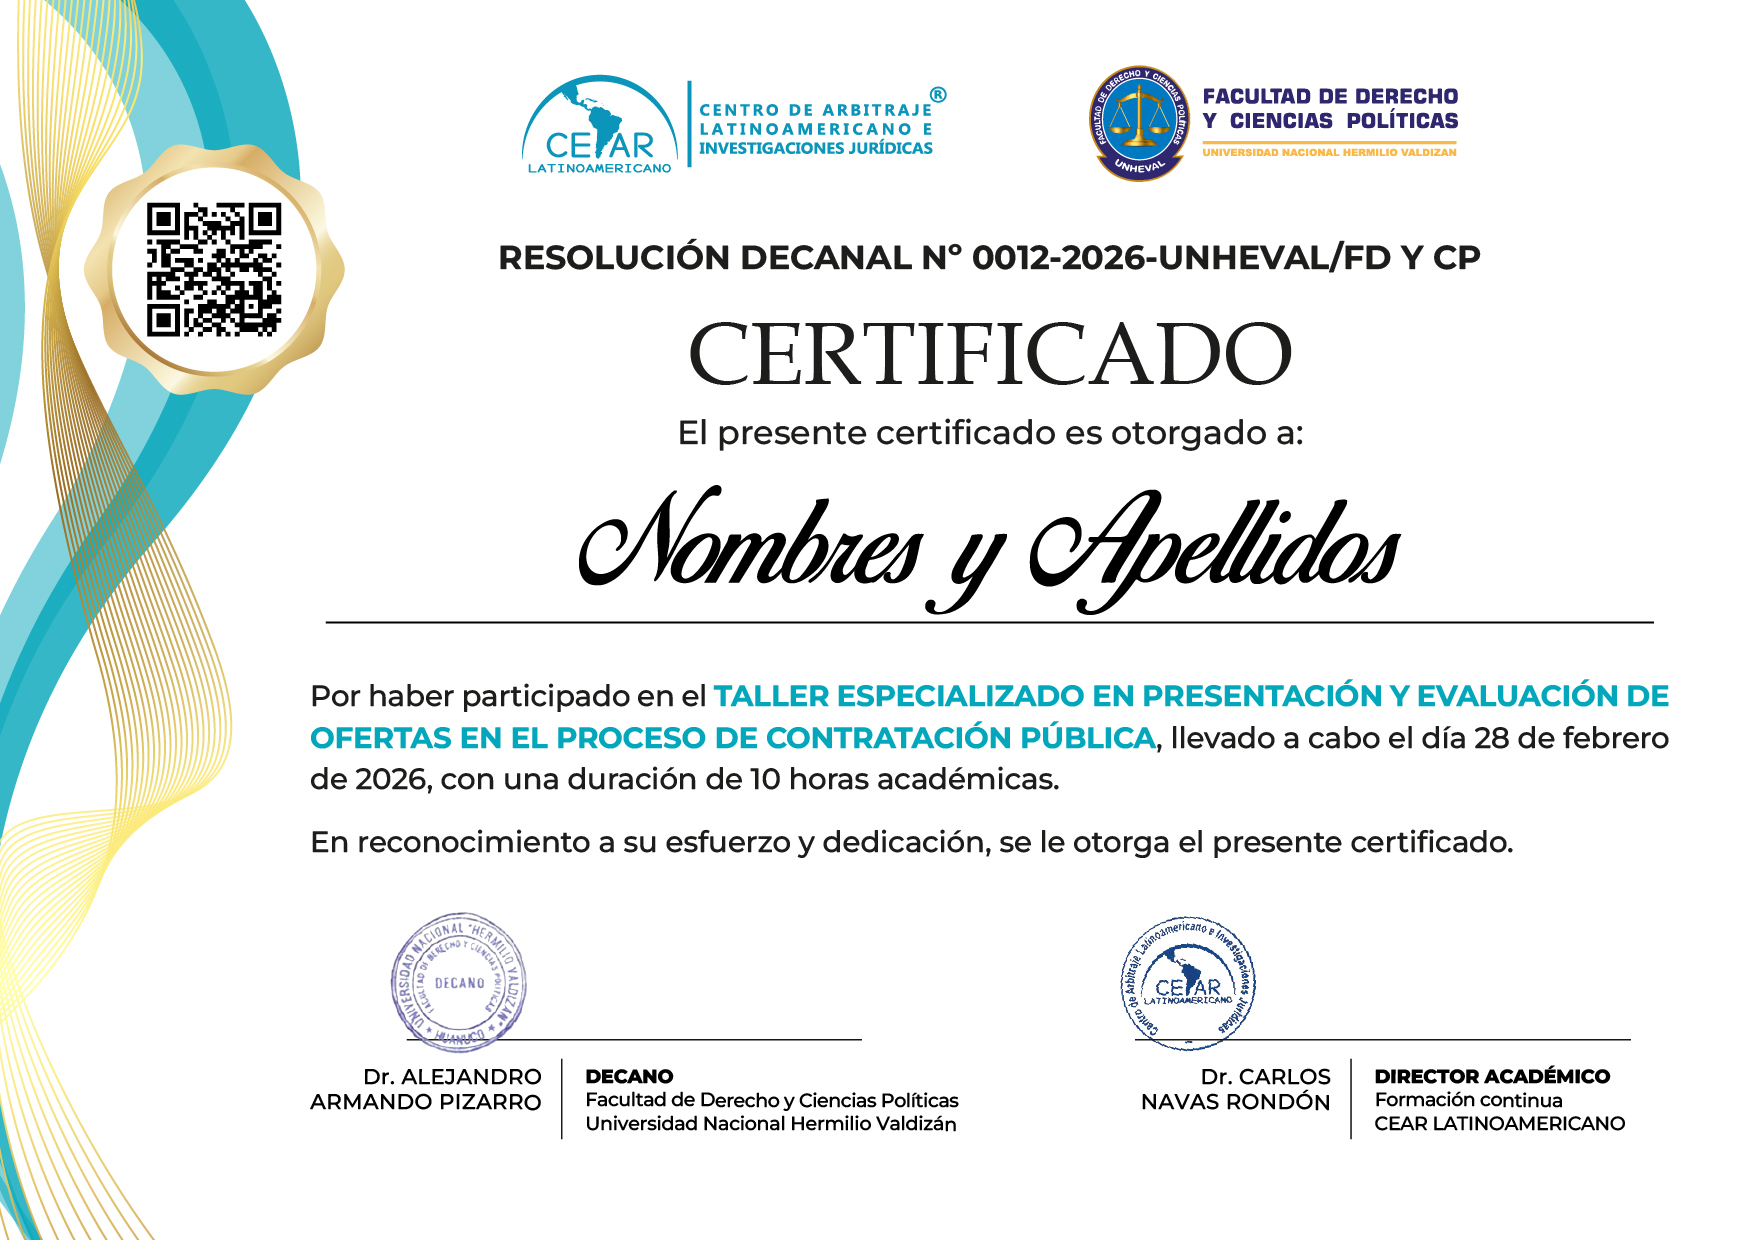
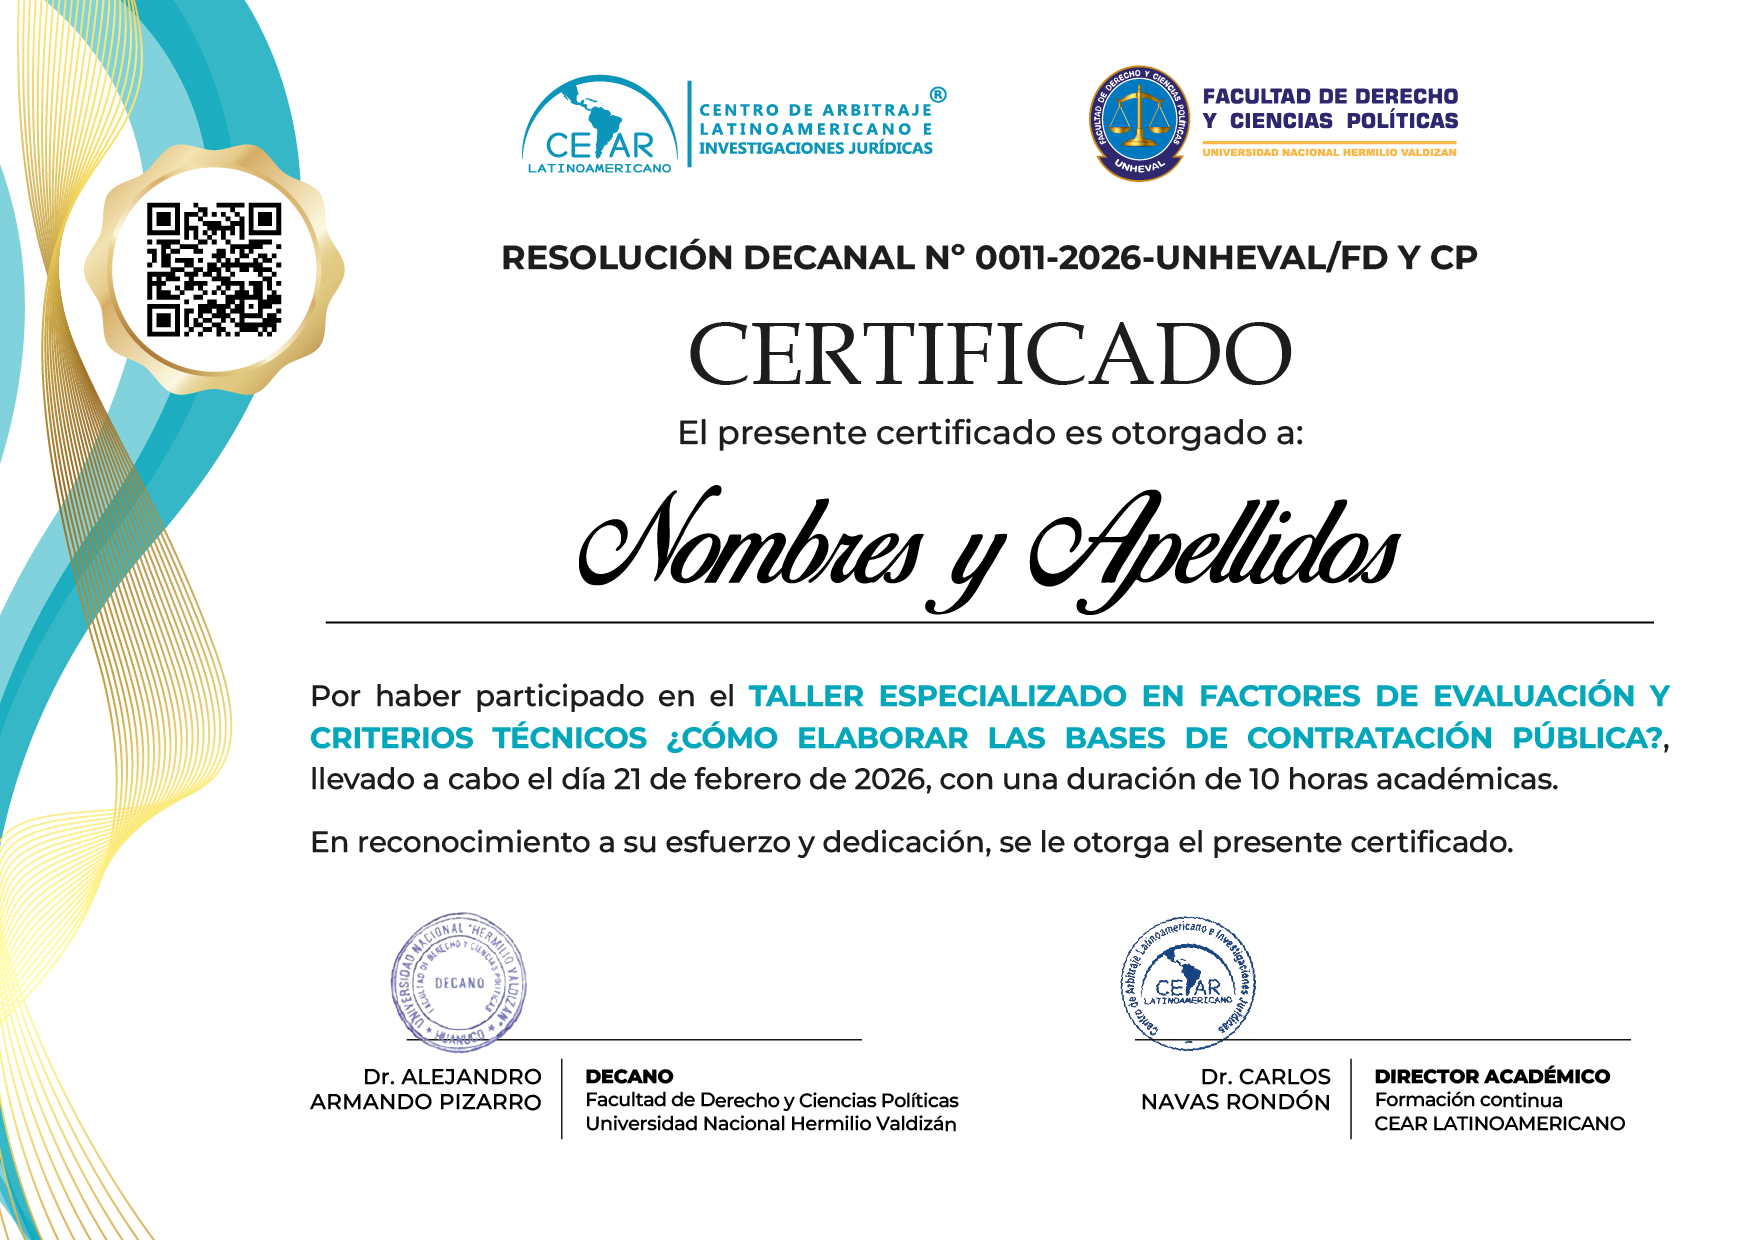
update | Actualizaciones de nuevos talleres

Changed region(s): [[0.1847, 0.5516, 0.9544, 0.6435], [0.2771, 0.1839, 0.8312, 0.2145]]

diff --git a/data/coursesUpdated.ts b/data/coursesUpdated.ts
@@ -69,6 +69,9 @@ const inversionPrivadaPortada = "/images/courses/mip.jpeg";
 const taller1 = "/images/courses/taller-abogado.jpeg";
 const certificadoTaller = "/images/courses/taller_certificado.jpeg";
 
+const taller4 = "/images/courses/taller-4.jpeg";
+const certificadoTaller4 = "/certificates/Certificado_taller_4.jpeg";
+
 const hugoVallejos = "/images/instructors/hugo_vallejos.png";
 
 export interface Course {
@@ -78,15 +81,21 @@ export interface Course {
     fullDescription: string;
     type: "diplomado" | "curso" | "taller";
     modality: "presencial" | "virtual" | "híbrido";
+    platform?: string;
     duration: string;
     price: number;
-    certification: string;
+    certification: string | {
+        issuedBy: string;
+        partnerInstitution: string;
+        requirements: string[];
+    };
     image: string;
     frequency: string;
     schedule: string;
     hours: string;
+    sessions?: number;
     category?: string;
-    benefits?: string;
+    benefits?: string | string[];
     videoUrl?: string;
     videoThumbnail?: string;
     certificationImage?: string;
@@ -122,6 +131,7 @@ export interface Course {
     }[];
     startDate: string;
     featured: boolean;
+    materials?: string[];
 }
 
 export const courses: Course[] = [
@@ -1314,6 +1324,119 @@ export const courses: Course[] = [
         startDate: "21-02-26",
         featured: true,
     },
+    {
+        id: "presentacion-y-evaluacion-de-ofertas-contratacion-publica",
+        title: "Presentación y evaluación de ofertas en la contratación pública",
+        shortDescription:
+          "Taller especializado orientado a fortalecer las capacidades técnicas para la correcta presentación, admisión y evaluación de ofertas en los procesos de contratación pública, conforme a la Ley N.° 32069 y su Reglamento.",
+        fullDescription:
+          "Durante el procedimiento de contratación pública, la oferta constituye el eje central de la fase de selección, al expresar la voluntad del postor de contratar con el Estado y someterse a las bases del proceso, asumiendo obligaciones técnicas, económicas y legales. Su adecuada presentación y evaluación, conforme a los artículos 68 al 79 del Reglamento de la Ley N.° 32069, resulta esencial para la validez del procedimiento, la correcta selección del adjudicatario y la prevención de controversias durante la ejecución contractual.\n\nEl taller especializado tiene como finalidad identificar y analizar los aspectos esenciales vinculados a la presentación y evaluación de la oferta, desde la integración de bases y la admisión, hasta su contenido, tipos, requisitos de calificación, evaluación técnica y económica, así como los mecanismos de subsanación. El enfoque combina análisis normativo y estudio de casos reales, garantizando un aprendizaje integral y aplicado.",
+        type: "taller",
+        modality: "virtual",
+        platform: "Google Meet",
+        startDate: "28-02-2026",
+        schedule: "09:00 a.m. - 04:00 p.m.",
+        duration: "28/02/2026",
+        hours: "10 horas académicas",
+        sessions: 1,
+        brochure:
+            "https://cearlatinoamericano.edu.pe/sisdocs/brochures/BROCHURE_EVALUACION_TALLER.pdf",
+        price: 200,
+        frequency: "Sesión única",
+        image: taller4,
+        certificationImage: certificadoTaller4,
+        category: "Contratación Pública",
+        certification: {
+          issuedBy: "CEAR LATINOAMERICANO",
+          partnerInstitution: "UNHEVAL",
+          requirements: [
+            "Registro correcto en la ficha de inscripción",
+            "Asistencia a la sesión del taller",
+            "No mantener obligaciones administrativas o económicas pendientes con la institución"
+          ]
+        },
+        benefits: [
+          "Aplicación correcta de las reglas de presentación, admisión y evaluación de ofertas",
+          "Análisis técnico y económico objetivo de las ofertas",
+          "Reducción de riesgos de observaciones y nulidades",
+          "Sustento adecuado del otorgamiento de la buena pro",
+          "Fortalecimiento de la seguridad jurídica en la contratación pública"
+        ],
+        syllabus: [
+          {
+            module: "MÓDULO I. Presentación de ofertas y reglas de admisión (arts. 68 y 69)",
+            topics: [
+              "Forma, oportunidad y condiciones para la presentación de ofertas",
+              "Contenido mínimo de la oferta técnica y económica",
+              "Principio de igualdad de trato y prohibición de exigencias no previstas en bases",
+              "Supuestos de no admisión de ofertas",
+              "Responsabilidad de la DEC o del órgano evaluador"
+            ]
+          },
+          {
+            module: "MÓDULO II. Verificación de requisitos y subsanación de ofertas (arts. 70 y 71)",
+            topics: [
+              "Diferencia entre defectos formales y sustanciales",
+              "Supuestos permitidos para la subsanación",
+              "Plazos y procedimiento de subsanación",
+              "Límites legales a la subsanación de ofertas",
+              "Riesgos frecuentes por indebida admisión o exclusión"
+            ]
+          },
+          {
+            module: "MÓDULO III. Evaluación técnica de las ofertas (arts. 72 al 74)",
+            topics: [
+              "Aplicación de los factores técnicos previstos en las bases",
+              "Evaluación de experiencia, metodología, personal clave y equipamiento",
+              "Prohibición de criterios subjetivos o discrecionales",
+              "Uso correcto de matrices y cuadros comparativos",
+              "Casos de evaluación incorrecta y consecuencias jurídicas"
+            ]
+          },
+          {
+            module: "MÓDULO IV. Evaluación económica y razonabilidad de la oferta (arts. 75 al 77)",
+            topics: [
+              "Análisis de precios ofertados y consistencia económica",
+              "Comparación con el valor estimado o referencial",
+              "Identificación de ofertas no razonables o inviables",
+              "Reglas para la evaluación económica objetiva",
+              "Integración del puntaje técnico y económico"
+            ]
+          },
+          {
+            module: "MÓDULO V. Calificación final, orden de prelación y otorgamiento de la buena pro (arts. 78 y 79)",
+            topics: [
+              "Determinación del orden de prelación",
+              "Criterios de desempate",
+              "Elaboración del acta y del informe de evaluación",
+              "Motivación técnica y legal de la buena pro",
+              "Riesgos de nulidad y control posterior del procedimiento"
+            ]
+          }
+        ],
+        instructors: [
+          {
+            name: "Ignacio Hugo Vallejos Campbell",
+            title: "Consultor en Gestión Pública",
+            bio:
+              "Licenciado en Administración, con más de 20 años de experiencia en gestión pública, logística, contratación estatal, planeamiento estratégico y presupuesto. Ha ocupado cargos directivos en el Ministerio de Justicia y Derechos Humanos, el Ministerio de Transportes y Comunicaciones, el Ministerio de Cultura y el OECE. Actualmente se desempeña como consultor, capacitador y docente en temas de gestión pública y contrataciones del Estado.",
+            image: hugoVallejos,
+            degrees: ["Licenciado en Administración"],
+            professionalExperience: [
+              "Gestión pública",
+              "Contratación estatal",
+              "Planeamiento estratégico",
+              "Evaluación de ofertas",
+              "Capacitación y docencia especializada"
+            ]
+          }
+        ],
+        materials: [
+          "Opinión Nº D000049-2025-OECE-DTN",
+          "Opinión Nº D000014-2025-OECE-DTN"
+        ],
+        featured: true
+    },  
     {
         id: "diplomado-derecho-administrativo-ii",
         title: "II Diplomado de Especialización en Derecho Administrativo para Árbitros",

diff --git a/components/CoursesGrid.tsx b/components/CoursesGrid.tsx
@@ -9,7 +9,11 @@ interface Course {
   modality: 'presencial' | 'virtual' | 'híbrido';
   duration: string;
   price: number;
-  certification: string;
+  certification: string | {
+    issuedBy: string;
+    partnerInstitution: string;
+    requirements: string[];
+  };
   image: string;
   hours?: string;
   startDate: string;
@@ -22,15 +26,31 @@ interface CoursesGridProps {
 }
 
 export function CoursesGrid({ courses, onCourseClick }: CoursesGridProps) {
-  // Convertir fecha de formato DD-MM-YYYY a Date
+  // Convertir fecha de formato DD-MM-YYYY o DD-MM-YY a Date
   const parseDate = (dateStr: string) => {
-    // Si el formato es DD-MM-YYYY
+    if (!dateStr) return new Date(0); // Fecha por defecto si está vacía
+    
+    // Si el formato es DD-MM-YYYY o DD-MM-YY (con guiones)
     if (dateStr.includes('-') && dateStr.split('-')[0].length <= 2) {
       const [day, month, year] = dateStr.split('-');
-      return new Date(`${year}-${month}-${day}`);
+      // Si el año tiene 2 dígitos, convertirlo a 4 dígitos (20XX)
+      const fullYear = year.length === 2 ? `20${year}` : year;
+      const date = new Date(`${fullYear}-${month}-${day}`);
+      // Validar que la fecha sea válida
+      return isNaN(date.getTime()) ? new Date(0) : date;
+    }
+    // Si el formato es DD/MM/YYYY o DD/MM/YY (con barras)
+    if (dateStr.includes('/') && dateStr.split('/')[0].length <= 2) {
+      const [day, month, year] = dateStr.split('/');
+      // Si el año tiene 2 dígitos, convertirlo a 4 dígitos (20XX)
+      const fullYear = year.length === 2 ? `20${year}` : year;
+      const date = new Date(`${fullYear}-${month}-${day}`);
+      // Validar que la fecha sea válida
+      return isNaN(date.getTime()) ? new Date(0) : date;
     }
     // Si el formato es YYYY-MM-DD
-    return new Date(dateStr);
+    const date = new Date(dateStr);
+    return isNaN(date.getTime()) ? new Date(0) : date;
   };
 
   // Ordenar por fecha de inicio: cursos futuros primero (más cercana primero), cursos pasados al final (más reciente primero)
@@ -232,7 +252,9 @@ export function CoursesGrid({ courses, onCourseClick }: CoursesGridProps) {
                     </svg>
                   </div>
                   <p className="font-bold leading-[16px] text-[#1e397e] text-[15px]">
-                    {course.certification}
+                    {typeof course.certification === 'string' 
+                      ? course.certification 
+                      : `${course.certification.issuedBy}${course.certification.partnerInstitution ? ` - ${course.certification.partnerInstitution}` : ''}`}
                   </p>
                 </div>
 

diff --git a/components/CourseHeroSection.tsx b/components/CourseHeroSection.tsx
@@ -8,7 +8,11 @@ interface CourseHeroSectionProps {
     image: string;
     type: "diplomado" | "curso" | "taller";
     stats: {
-        certification: string;
+        certification: string | {
+            issuedBy: string;
+            partnerInstitution: string;
+            requirements: string[];
+        };
         modality: string;
         duration: string;
         frequency: string;
@@ -144,7 +148,9 @@ export function CourseHeroSection({
                                     Certificación
                                 </p>
                                 <p className={styles.statValue}>
-                                    {stats.certification}
+                                    {typeof stats.certification === 'string' 
+                                      ? stats.certification 
+                                      : `${stats.certification.issuedBy}${stats.certification.partnerInstitution ? ` - ${stats.certification.partnerInstitution}` : ''}`}
                                 </p>
                             </div>
                         </div>
@@ -489,14 +495,7 @@ export function CourseHeroSection({
                     {/* Brochure Button - Light blue for taller, transparent for others */}
                     {onBrochure && (
                         <button
-                            onClick={() => {
-                                window.open(
-                                    "https://cearlatinoamericano.edu.pe/sisdocs/brochures/TALLER_CP_1.pdf",
-                                    "_blank",
-                                    "noopener,noreferrer",
-                                );
-                                onBrochure && onBrochure();
-                            }}
+                            onClick={onBrochure}
                             className={
                                 isTaller
                                     ? styles.brochureButtonTaller

diff --git a/pages/CourseDetail.tsx b/pages/CourseDetail.tsx
@@ -55,7 +55,11 @@ interface Course {
     category?: string;
     duration: string;
     modality: string;
-    certification: string;
+    certification: string | {
+        issuedBy: string;
+        partnerInstitution: string;
+        requirements: string[];
+    };
     frequency: string;
     schedule: string;
     hours: string;
@@ -64,7 +68,7 @@ interface Course {
     enrollmentDeadline?: string;
     instructors: Instructor[];
     syllabus: Module[];
-    benefits?: string;
+    benefits?: string | string[];
     videoUrl?: string;
     videoThumbnail?: string;
     certificationImage?: string;
@@ -772,7 +776,7 @@ export default function CourseDetail({
             {/* Benefits/Results Section */}
             {course.benefits && (
                 <CourseBenefitsSection
-                    description={course.benefits}
+                    description={Array.isArray(course.benefits) ? course.benefits.join(' ') : course.benefits}
                     videoUrl={course.videoUrl}
                     videoThumbnail={course.videoThumbnail}
                 />

diff --git a/components/CourseBenefitsSection.tsx b/components/CourseBenefitsSection.tsx
@@ -11,7 +11,11 @@ interface CourseBenefitsSectionProps {
   sessions?: string;
   startDate?: string;
   modality?: string;
-  certification?: string;
+  certification?: string | {
+    issuedBy: string;
+    partnerInstitution: string;
+    requirements: string[];
+  };
 }
 
 export function CourseBenefitsSection({
@@ -274,7 +278,11 @@ export function CourseBenefitsSection({
                 </div>
                 <div>
                   <p className={`text-2xl mb-1 ${colorVariant === 'dark' ? 'text-white/80' : 'text-gray-500'}`}>Certificación</p>
-                  <p className={colorVariant === 'dark' ? 'text-white' : 'text-gray-900'}>{certification}</p>
+                  <p className={colorVariant === 'dark' ? 'text-white' : 'text-gray-900'}>
+                    {typeof certification === 'string' 
+                      ? certification 
+                      : `${certification.issuedBy}${certification.partnerInstitution ? ` - ${certification.partnerInstitution}` : ''}`}
+                  </p>
                 </div>
               </div>
             )}

diff --git a/components/ISOSection.tsx b/components/ISOSection.tsx
@@ -90,7 +90,7 @@ export function ISOSection() {
                 alt="Profesional CEAR LATINOAMERICANO"
                 className={styles.image}
               />
-              <motion.div
+              {/* <motion.div
                 initial={{ opacity: 0, y: 20 }}
                 whileInView={{ opacity: 1, y: 0 }}
                 viewport={{ once: true }}
@@ -100,7 +100,7 @@ export function ISOSection() {
                 <p className={styles.imageOverlayText}>
                   La adopción de estándares internacionales de calidad y gestión constituye un soporte transversal para el desarrollo de nuestra oferta académica, fortaleciendo la confianza, la transparencia y la mejora continua en los procesos formativos.
                 </p>
-              </motion.div>
+              </motion.div> */}
             </div>
           </motion.div>
 

diff --git a/components/CourseCard.tsx b/components/CourseCard.tsx
@@ -57,7 +57,11 @@ export function CourseCard({ course, onClick, colorVariant = 'default' }: Course
           </div>
           <div className="flex items-center gap-2 text-sm text-gray-600">
             <Award className={`w-4 h-4 ${colorVariant === 'dark' ? 'text-[#0A8DA8]' : 'text-[#0B95BA]'}`} />
-            <span>{course.certification}</span>
+            <span>
+              {typeof course.certification === 'string' 
+                ? course.certification 
+                : course.certification.issuedBy}
+            </span>
           </div>
           <div className="flex items-center gap-2">
             <BookOpen className={`w-4 h-4 ${colorVariant === 'dark' ? 'text-[#0A8DA8]' : 'text-[#0B95BA]'}`} />

diff --git a/components/CertificationSection.tsx b/components/CertificationSection.tsx
@@ -5,7 +5,11 @@ import CearLogoWhite from '../imports/Capa1-2854-459';
 import styles from './CertificationSection.module.css';
 
 interface CertificationSectionProps {
-  certification: string;
+  certification: string | {
+    issuedBy: string;
+    partnerInstitution: string;
+    requirements: string[];
+  };
   certificationImage?: string;
   institutionLogos?: string[];
 }

diff --git a/components/CourseHeroSection.module.css b/components/CourseHeroSection.module.css
@@ -95,6 +95,7 @@
   word-wrap: break-word;
   overflow-wrap: break-word;
   hyphens: auto;
+  text-wrap: balance;
 }
 
 .description {
